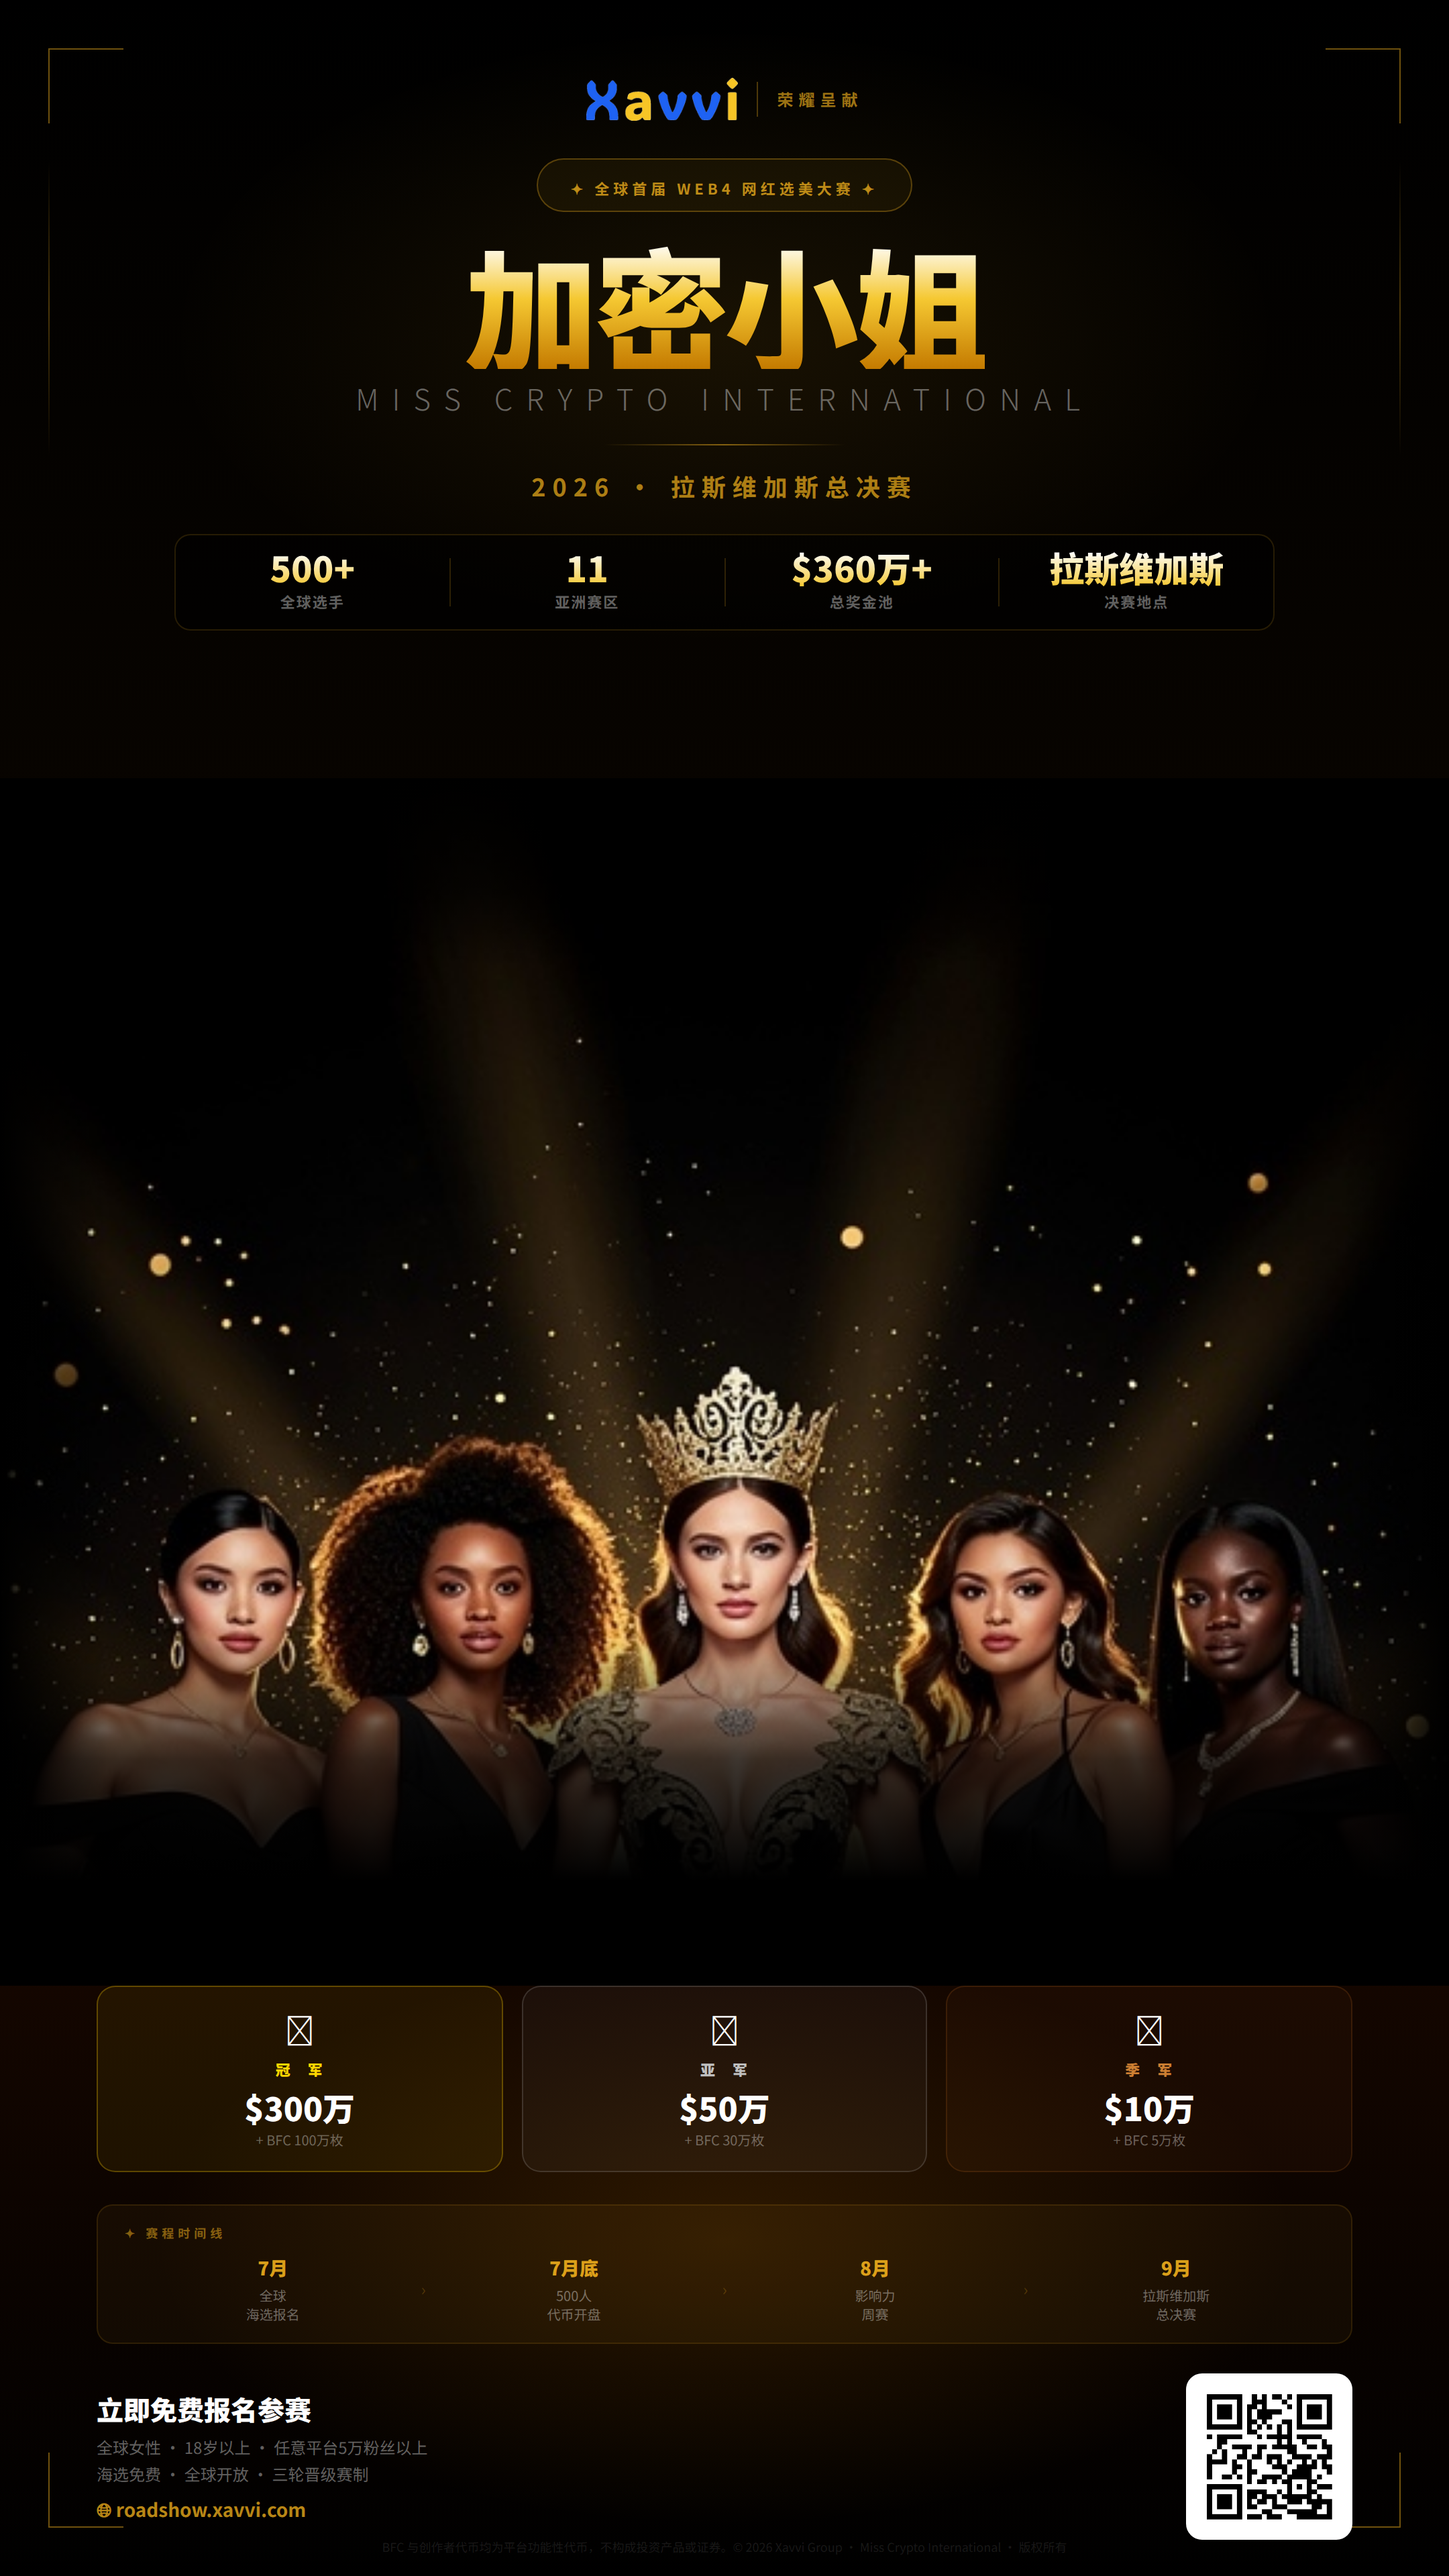
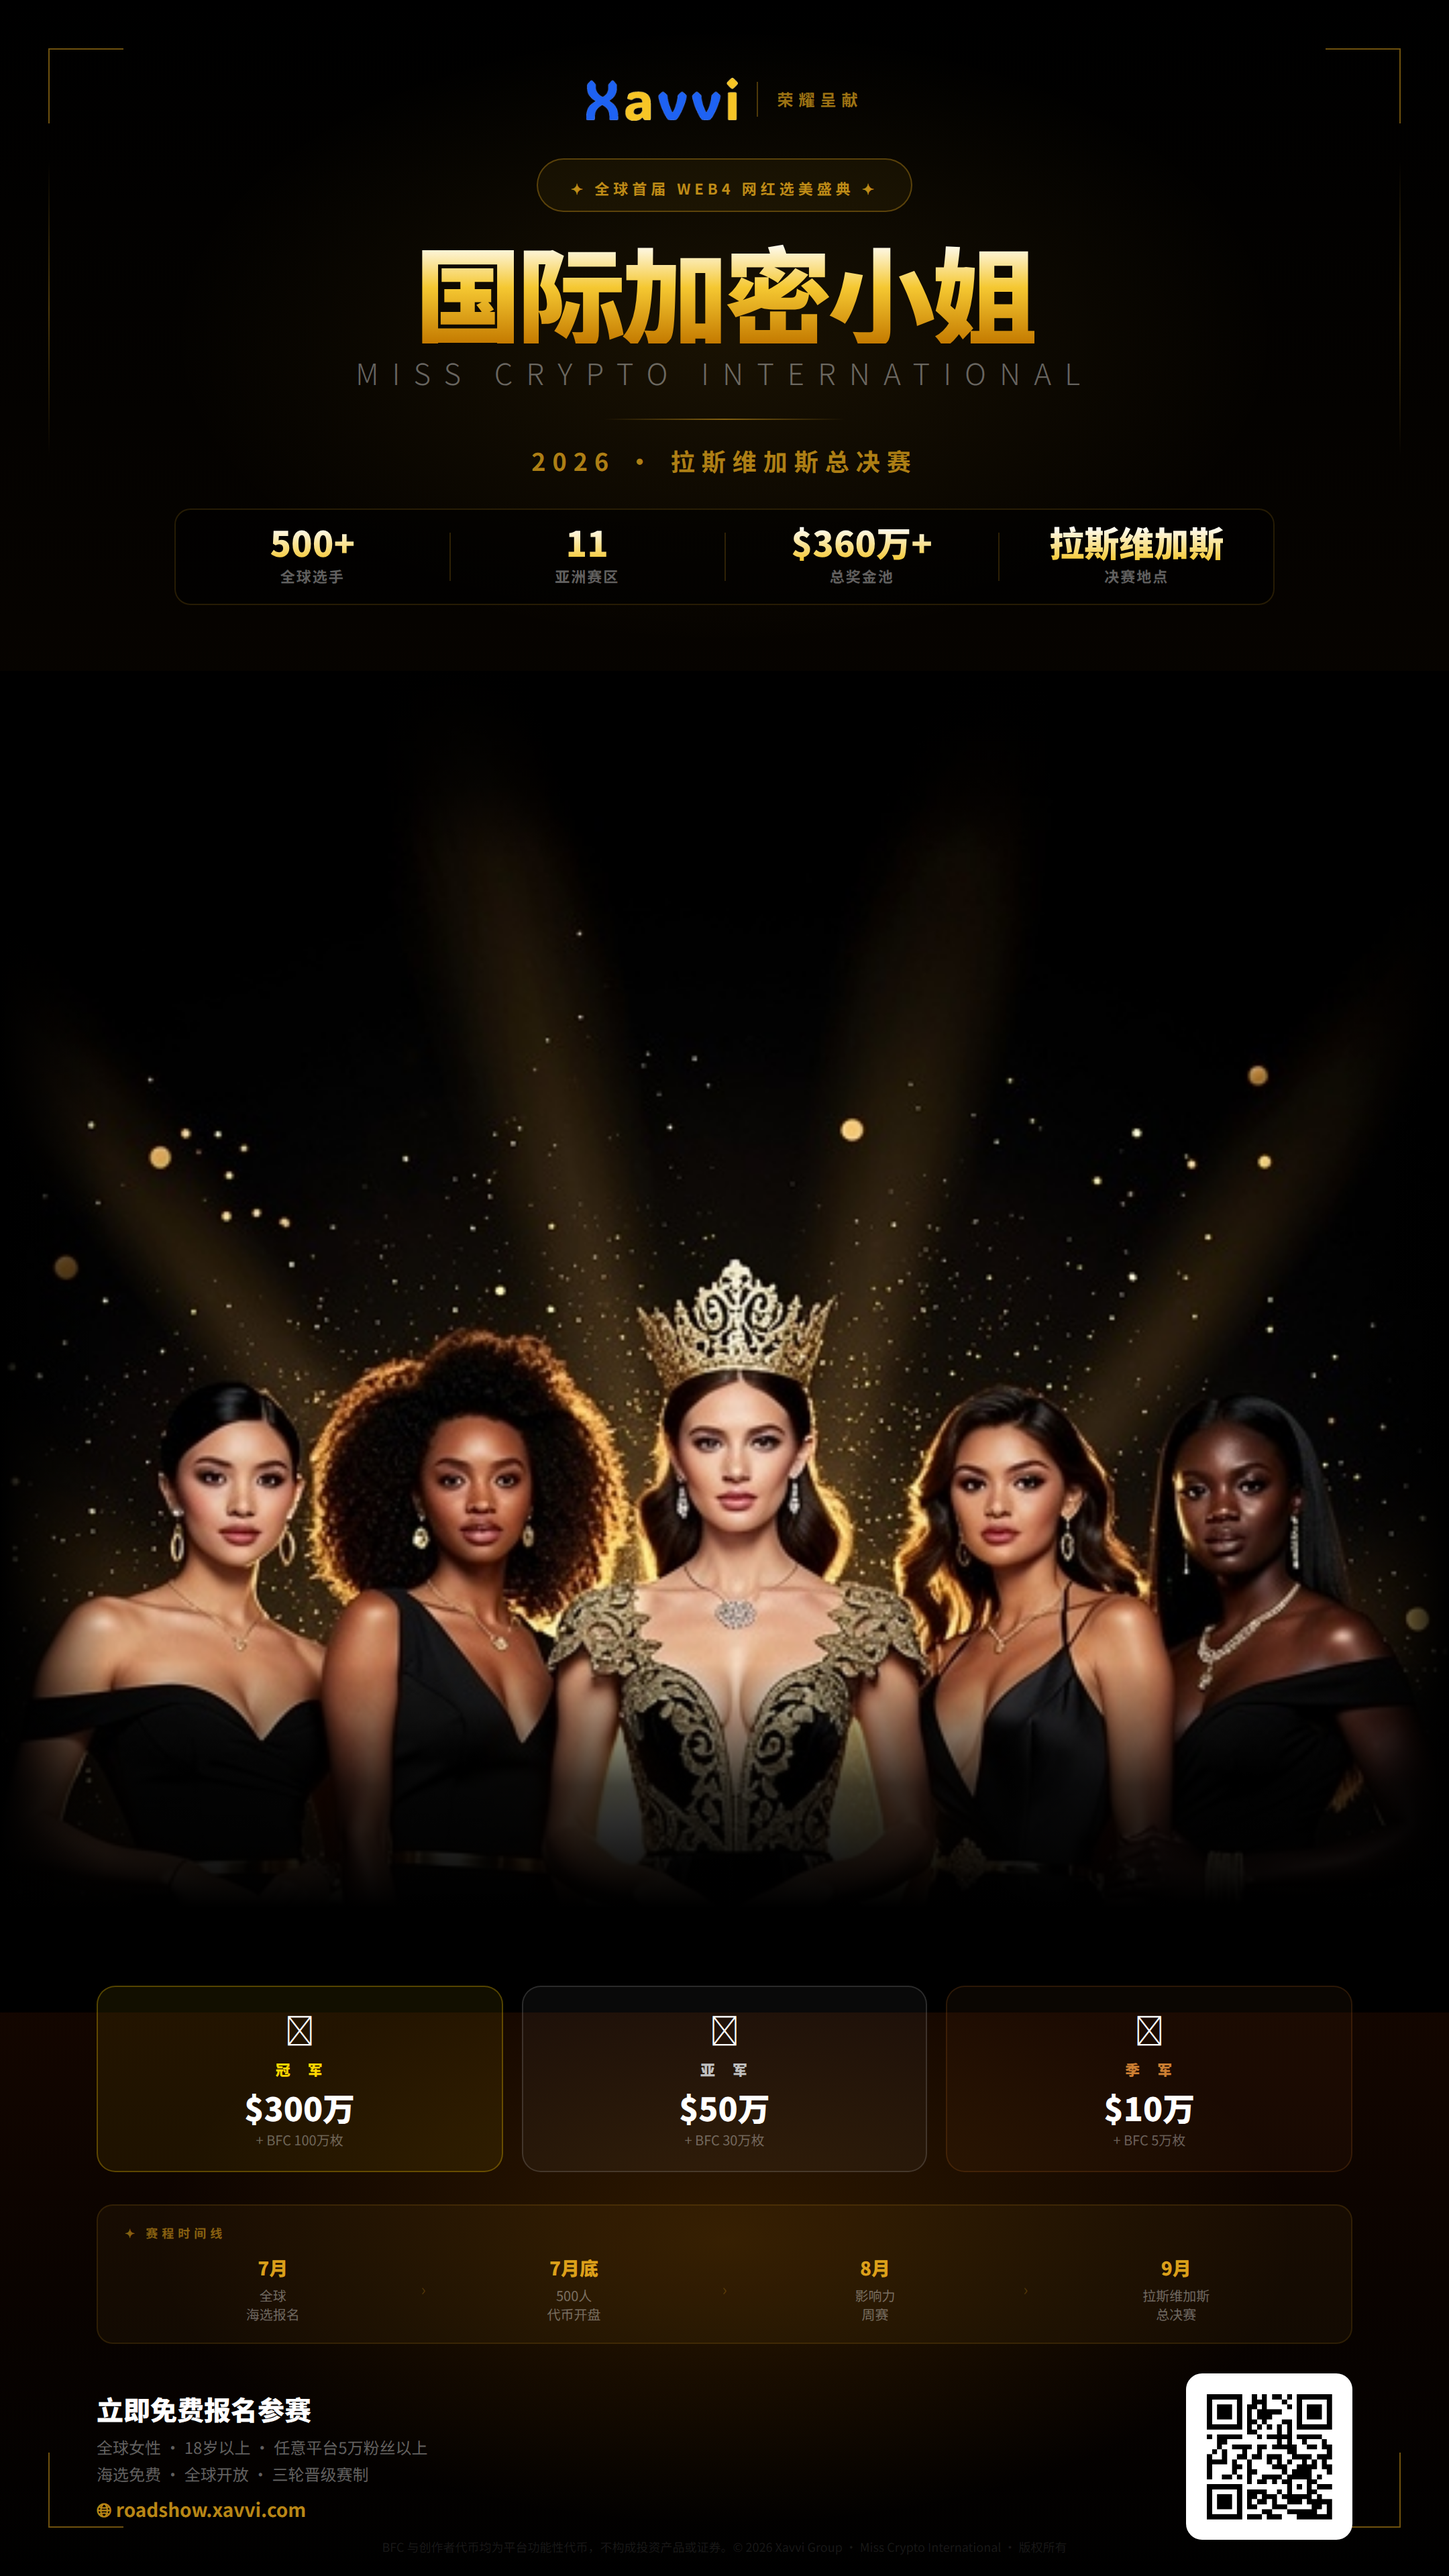
feat: Miss Crypto poster EN + roadshow poster hero bg image update

diff --git a/miss-crypto-poster-en.html b/miss-crypto-poster-en.html
@@ -108,21 +108,21 @@ body{width:1080px;height:1920px;background:#000;font-family:'PingFang SC','Noto 
   <div class="logo-row">
     <img src="logo.png" alt="Xavvi"/>
     <div class="logo-sep"></div>
-    <div class="logo-txt">荣耀呈献</div>
+    <div class="logo-txt">Proudly Presents</div>
   </div>
-  <div class="badge"><span>✦ 全球首届 Web4 网红选美盛典 ✦</span></div>
-  <div class="main-title">国际加密小姐</div>
-  <div class="main-en">Miss Crypto International</div>
+  <div class="badge"><span>✦ World's First Web4 Creator Beauty Pageant ✦</span></div>
+  <div class="main-title" style="font-size:72px;letter-spacing:-1px;">Miss Crypto<br/>International</div>
+  <div class="main-en">国际加密小姐大赛</div>
   <div class="divider-line"></div>
-  <div class="sub-tagline">2026 · 拉斯维加斯总决赛</div>
+  <div class="sub-tagline">2026 · Las Vegas总决赛</div>
   <div class="stats-strip">
-    <div class="s-item"><div class="s-num">500+</div><div class="s-lbl">全球选手</div></div>
+    <div class="s-item"><div class="s-num">500+</div><div class="s-lbl">Global Contestants</div></div>
     <div class="s-sep"></div>
-    <div class="s-item"><div class="s-num">11</div><div class="s-lbl">亚洲赛区</div></div>
+    <div class="s-item"><div class="s-num">11</div><div class="s-lbl">Asian Regions</div></div>
     <div class="s-sep"></div>
-    <div class="s-item"><div class="s-num">$360万+</div><div class="s-lbl">总奖金池</div></div>
+    <div class="s-item"><div class="s-num">$360万+</div><div class="s-lbl">Total Prize Pool</div></div>
     <div class="s-sep"></div>
-    <div class="s-item"><div class="s-num">拉斯维加斯</div><div class="s-lbl">决赛地点</div></div>
+    <div class="s-item"><div class="s-num">Las Vegas</div><div class="s-lbl">Finals Venue</div></div>
   </div>
 </div>
 
@@ -141,43 +141,43 @@ body{width:1080px;height:1920px;background:#000;font-family:'PingFang SC','Noto 
   <div class="prize-row">
     <div class="prize-card pc-gold">
       <div class="p-icon">👑</div>
-      <div class="p-name n-gold">冠　军</div>
+      <div class="p-name n-gold">CHAMPION</div>
       <div class="p-cash">$300万</div>
-      <div class="p-token">+ BFC 100万枚</div>
+      <div class="p-token">+ 1M BFC Tokens</div>
     </div>
     <div class="prize-card pc-silver">
       <div class="p-icon">🥈</div>
-      <div class="p-name n-silver">亚　军</div>
+      <div class="p-name n-silver">1ST RUNNER-UP</div>
       <div class="p-cash">$50万</div>
-      <div class="p-token">+ BFC 30万枚</div>
+      <div class="p-token">+ 300K BFC Tokens</div>
     </div>
     <div class="prize-card pc-bronze">
       <div class="p-icon">🥉</div>
-      <div class="p-name n-bronze">季　军</div>
+      <div class="p-name n-bronze">2ND RUNNER-UP</div>
       <div class="p-cash">$10万</div>
-      <div class="p-token">+ BFC 5万枚</div>
+      <div class="p-token">+ 50K BFC Tokens</div>
     </div>
   </div>
 
   <!-- 时间线 -->
   <div class="timeline-bar">
-    <div class="tl-label">✦ 赛程时间线</div>
+    <div class="tl-label">✦ Contest Timeline</div>
     <div class="tl-row">
-      <div class="tl-step"><div class="tl-month">7月</div><div class="tl-event">全球<br/>海选报名</div></div>
+      <div class="tl-step"><div class="tl-month">7月</div><div class="tl-event">Global<br/>Auditions</div></div>
       <div class="tl-arrow">›</div>
-      <div class="tl-step"><div class="tl-month">7月底</div><div class="tl-event">500人<br/>代币开盘</div></div>
+      <div class="tl-step"><div class="tl-month">7月底</div><div class="tl-event">500 Finalists<br/>Token Launch</div></div>
       <div class="tl-arrow">›</div>
-      <div class="tl-step"><div class="tl-month">8月</div><div class="tl-event">影响力<br/>周赛</div></div>
+      <div class="tl-step"><div class="tl-month">8月</div><div class="tl-event">Influence<br/>Weekly Rounds</div></div>
       <div class="tl-arrow">›</div>
-      <div class="tl-step"><div class="tl-month">9月</div><div class="tl-event">拉斯维加斯<br/>总决赛</div></div>
+      <div class="tl-step"><div class="tl-month">9月</div><div class="tl-event">Las Vegas<br/>总决赛</div></div>
     </div>
   </div>
 
   <!-- CTA -->
   <div class="cta-row">
     <div class="cta-text">
-      <div class="cta-main">立即免费报名参赛</div>
-      <div class="cta-sub">全球女性 · 18岁以上 · 任意平台5万粉丝以上<br/>海选免费 · 全球开放 · 三轮晋级赛制</div>
+      <div class="cta-main">Apply Now — Free Entry</div>
+      <div class="cta-sub">Female · 18+ · 50K+ followers on any platform<br/>Free audition · Global open · 3-round elimination</div>
       <div class="cta-url">🌐 roadshow.xavvi.com</div>
     </div>
     <div class="qr-box">
@@ -186,7 +186,7 @@ body{width:1080px;height:1920px;background:#000;font-family:'PingFang SC','Noto 
   </div>
 </div>
 
-<div class="disclaimer">BFC 与创作者代币均为平台功能性代币，不构成投资产品或证券。© 2026 Xavvi Group · Miss Crypto International · 版权所有</div>
+<div class="disclaimer">BFC and Creator Tokens are utility tokens only and do not constitute investment products or securities. © 2026 Xavvi Group · Miss Crypto International · All Rights Reserved</div>
 
 </body>
 </html>

diff --git a/roadshow-poster.html b/roadshow-poster.html
@@ -21,6 +21,12 @@
     position:relative;
     overflow:hidden;
   }
+  .hero-bg-img{
+    position:absolute;inset:0;
+    background:url(miss-crypto-queen2.png) center top/cover no-repeat;
+    opacity:0.18;
+    filter:saturate(0.6);
+  }
   .hero::before{
     content:'';position:absolute;top:-120px;left:50%;transform:translateX(-50%);
     width:600px;height:300px;
@@ -138,7 +144,7 @@
 <body>
 
 <!-- HERO -->
-<div class="hero">
+<div class="hero"><div class="hero-bg-img"></div>
   <img src="logo.png" alt="Xavvi" style="height:48px;margin-bottom:28px;display:block;margin-left:auto;margin-right:auto;"/>
   <div class="hero-badge">🌏 2026 Web4 网红经济发布会 · 诚邀出席</div>
   <h1>Web4 网红经济发布会</h1>
